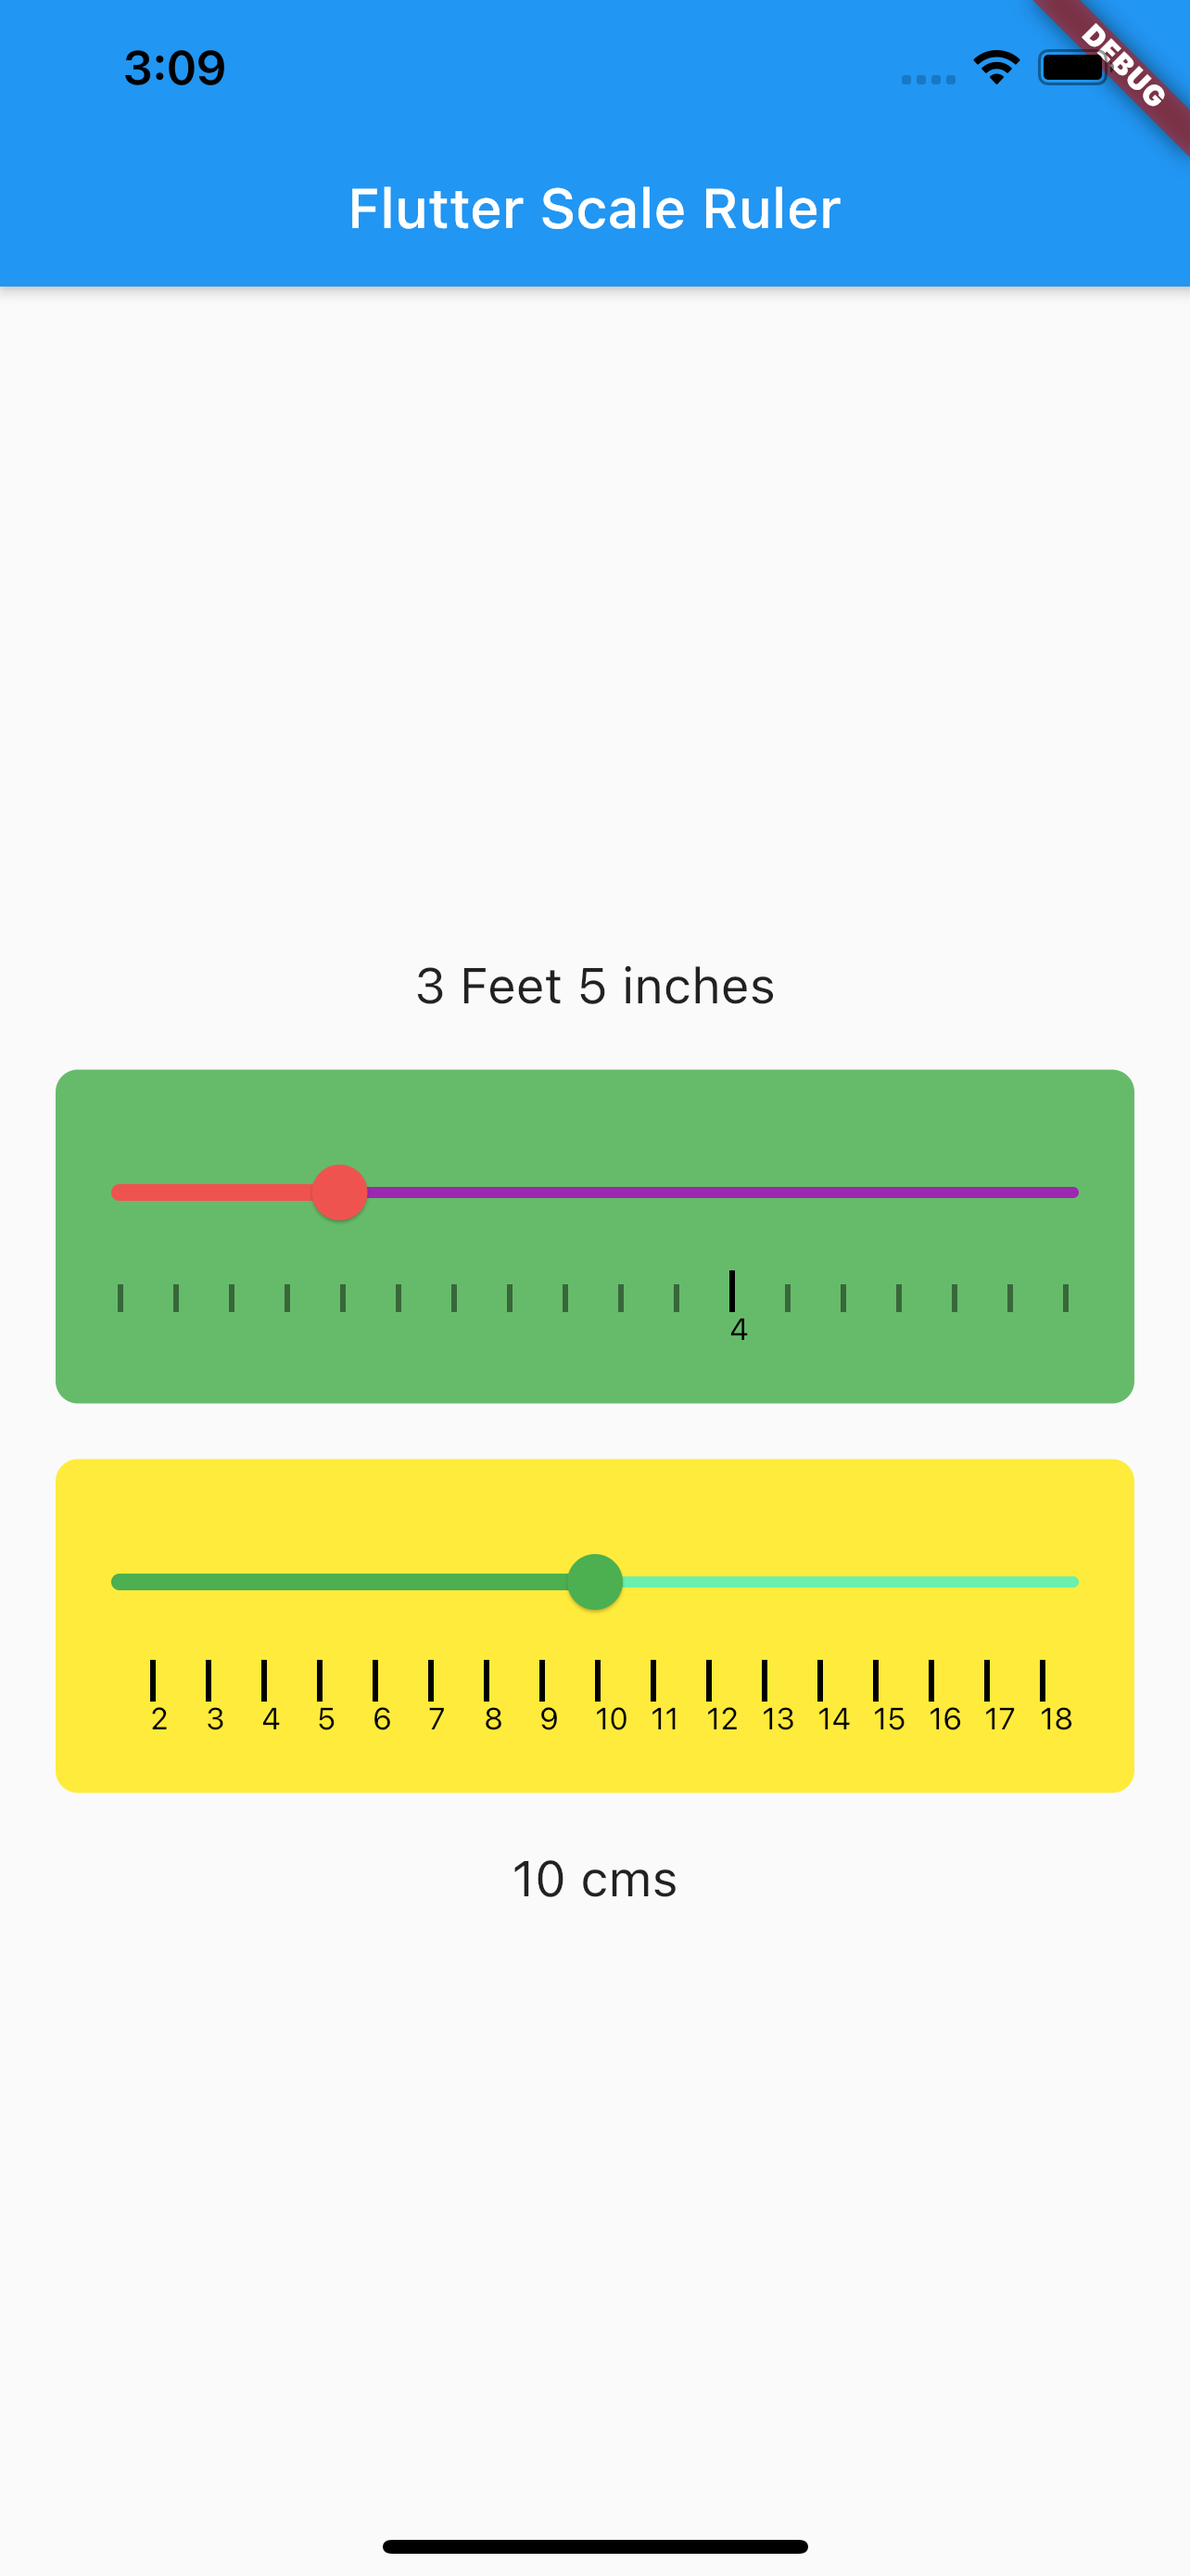
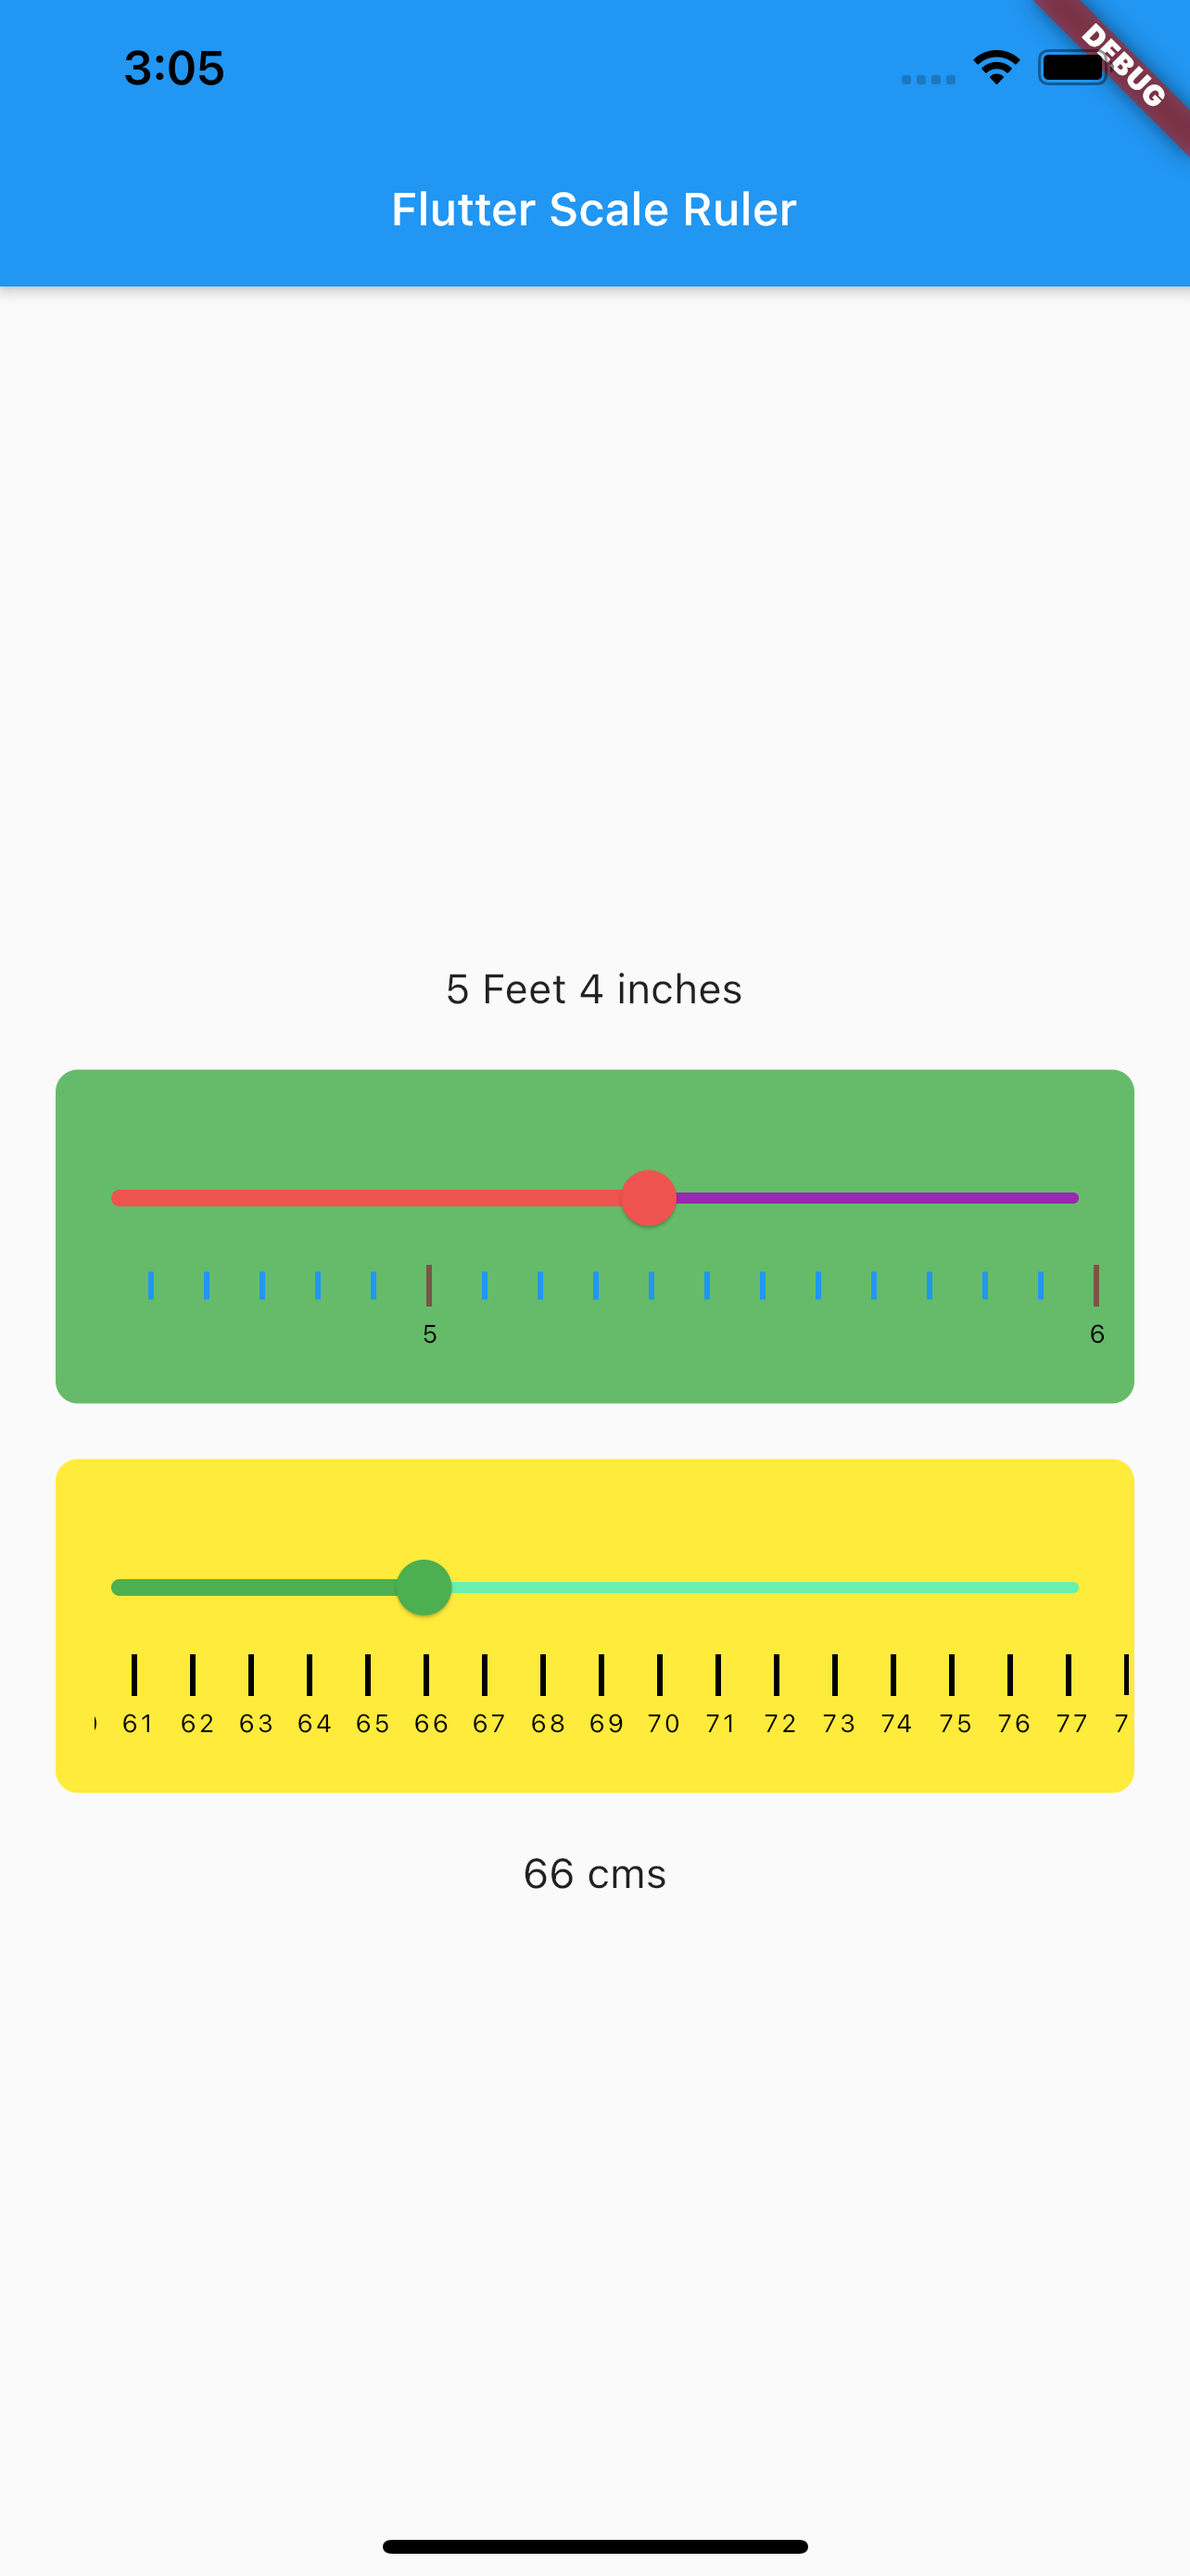
text aligned bug fixes and screen shorts

diff --git a/example/example.dart b/example/example.dart
@@ -1,6 +1,5 @@
 import 'package:flutter/material.dart';
 import 'package:flutter_scale_ruler/flutter_scale_ruler.dart';
-
 void main() {
   runApp(MyApp());
 }
@@ -53,6 +52,9 @@ class _MyHomePageState extends State<MyHomePage> {
             ScaleRuler.lengthMeasurement(
               maxValue: 8,
               minValue: 2,
+              isFeet: true,
+              stepIndicatorColor: Colors.brown,
+              stepIndicatorDividerColor: Colors.blue,
               onChanged: (ScaleValue? scaleValue) {
                 setState(() {
                   _scaleValue = scaleValue;
@@ -64,9 +66,9 @@ class _MyHomePageState extends State<MyHomePage> {
               height: 20.0,
             ),
             ScaleRuler.lengthMeasurement(
-              maxValue: 20,
-              minValue: 0,
-              isFeet: true,
+              maxValue: 200,
+              minValue: 2,
+
               backgroundColor: Colors.yellow[500],
               sliderActiveColor: Colors.green[500],
               sliderInactiveColor: Colors.greenAccent,

diff --git a/lib/flutter_scale_ruler.dart b/lib/flutter_scale_ruler.dart
@@ -129,11 +129,11 @@ class _ScaleRulerState extends State<ScaleRuler> {
 
     //set scale text row padding
     int textLength = widget.maxValue.toString().length;
-    if (textLength > 1) {
-      scalePadding = scalePadding - (2 * textLength);
 
-      if (scalePadding < 0) scalePadding = 0.0;
-    }
+    scalePadding = scalePadding - (2 * textLength);
+
+    if (scalePadding < 0) scalePadding = 0.0;
+
   }
 
   Widget getRulerBuild(BuildContext context) {

diff --git a/README.md b/README.md
@@ -25,7 +25,6 @@ To use this package :
 ```dart
 import 'package:flutter/material.dart';
 import 'package:flutter_scale_ruler/flutter_scale_ruler.dart';
-
 void main() {
   runApp(MyApp());
 }
@@ -75,9 +74,12 @@ class _MyHomePageState extends State<MyHomePage> {
             SizedBox(
               height: 20.0,
             ),
-            ScaleRuler(
+            ScaleRuler.lengthMeasurement(
               maxValue: 8,
               minValue: 2,
+              isFeet: true,
+              stepIndicatorColor: Colors.brown,
+              stepIndicatorDividerColor: Colors.blue,
               onChanged: (ScaleValue? scaleValue) {
                 setState(() {
                   _scaleValue = scaleValue;
@@ -88,10 +90,10 @@ class _MyHomePageState extends State<MyHomePage> {
             SizedBox(
               height: 20.0,
             ),
-            ScaleRuler(
-              maxValue: 20,
-              minValue: 0,
-              isCMS: true,
+            ScaleRuler.lengthMeasurement(
+              maxValue: 200,
+              minValue: 2,
+
               backgroundColor: Colors.yellow[500],
               sliderActiveColor: Colors.green[500],
               sliderInactiveColor: Colors.greenAccent,
